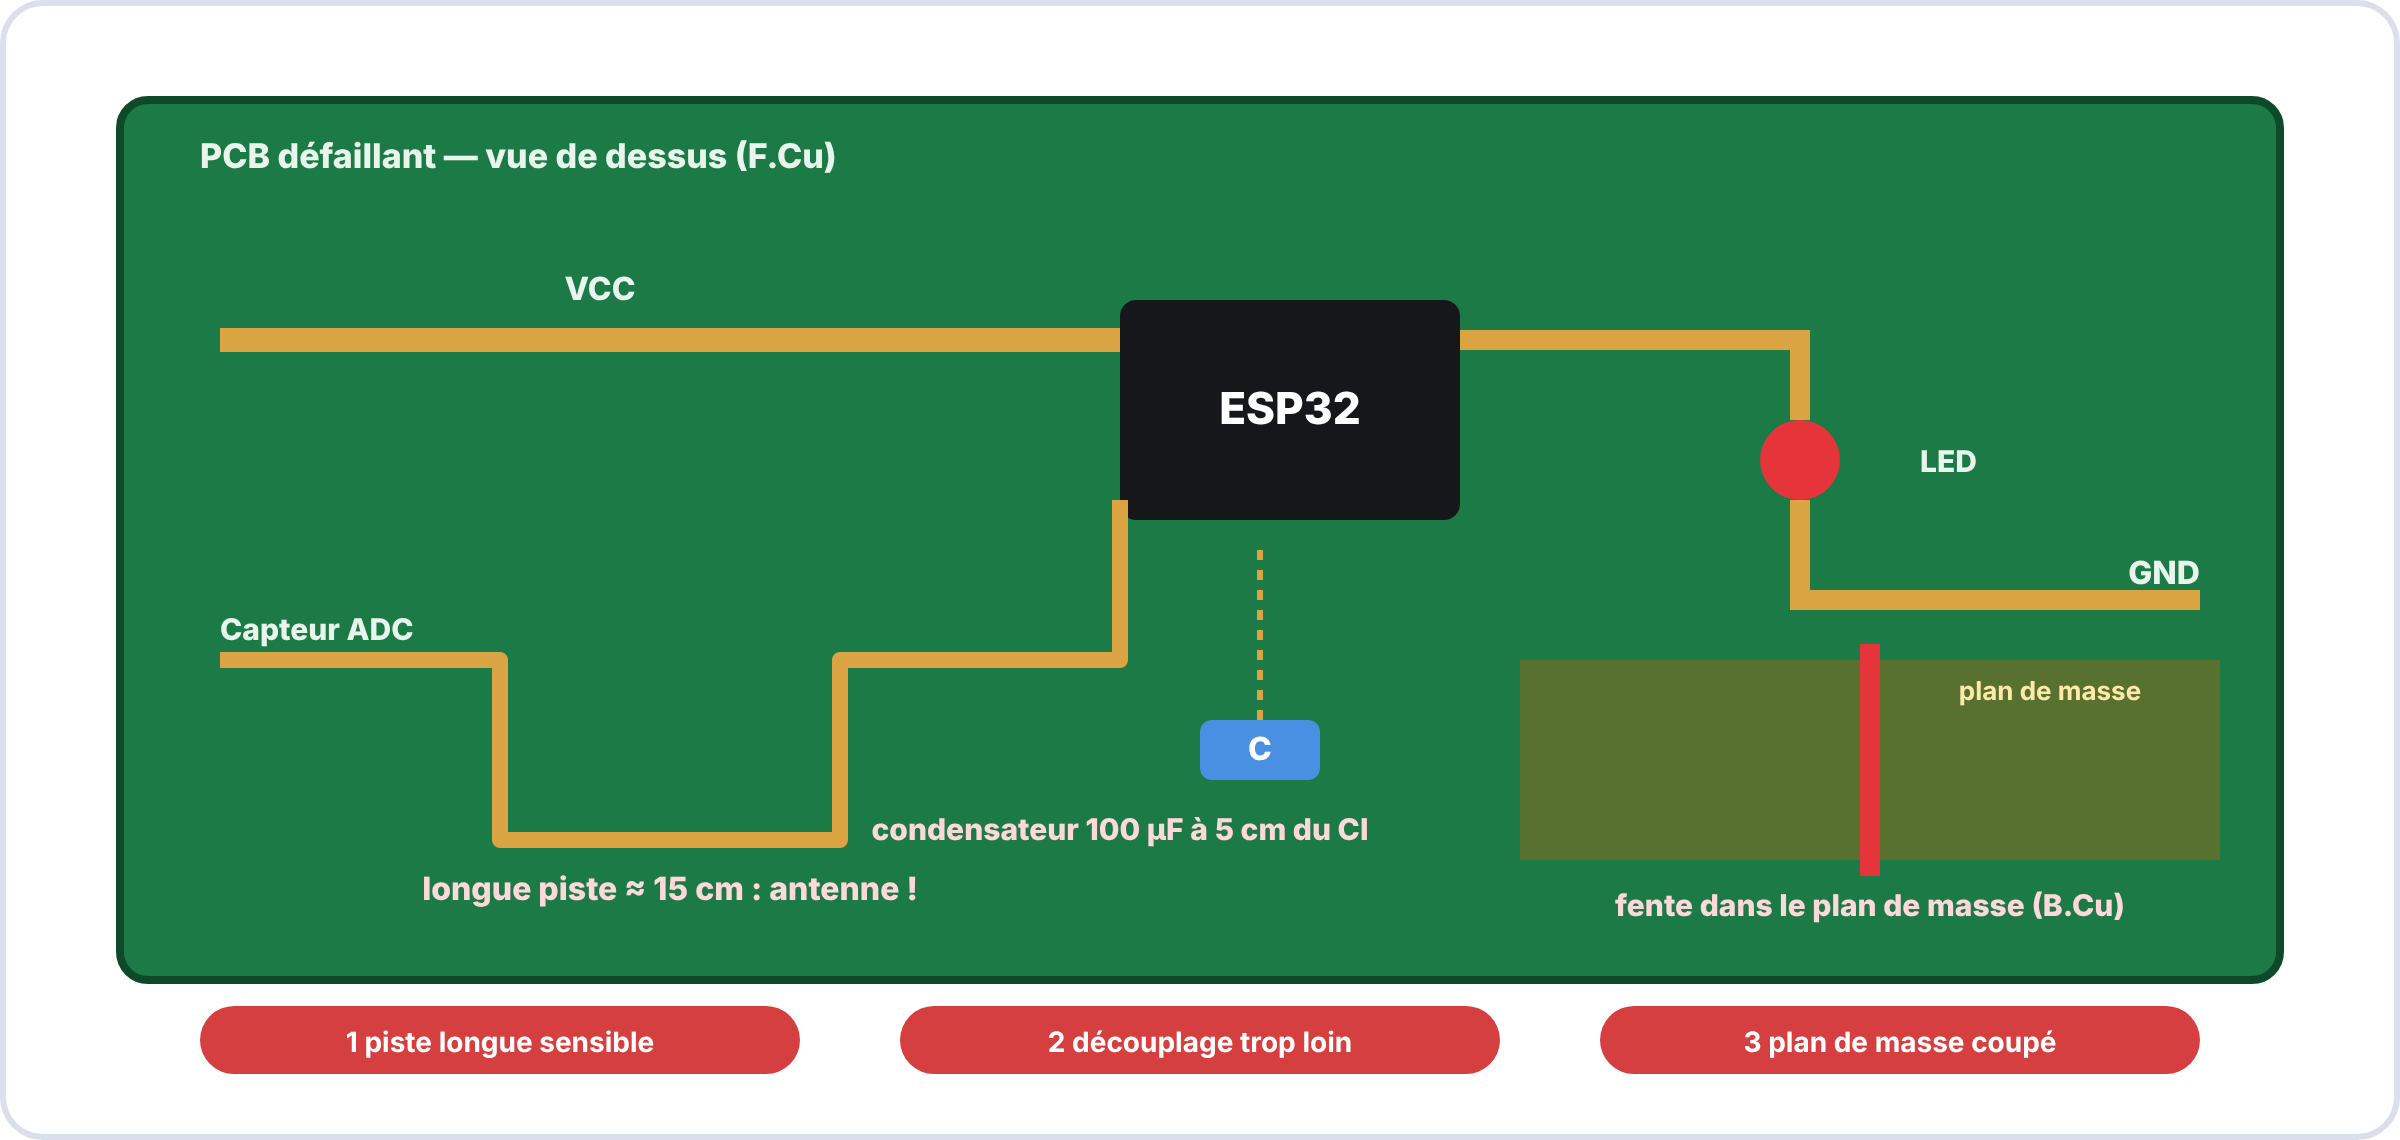
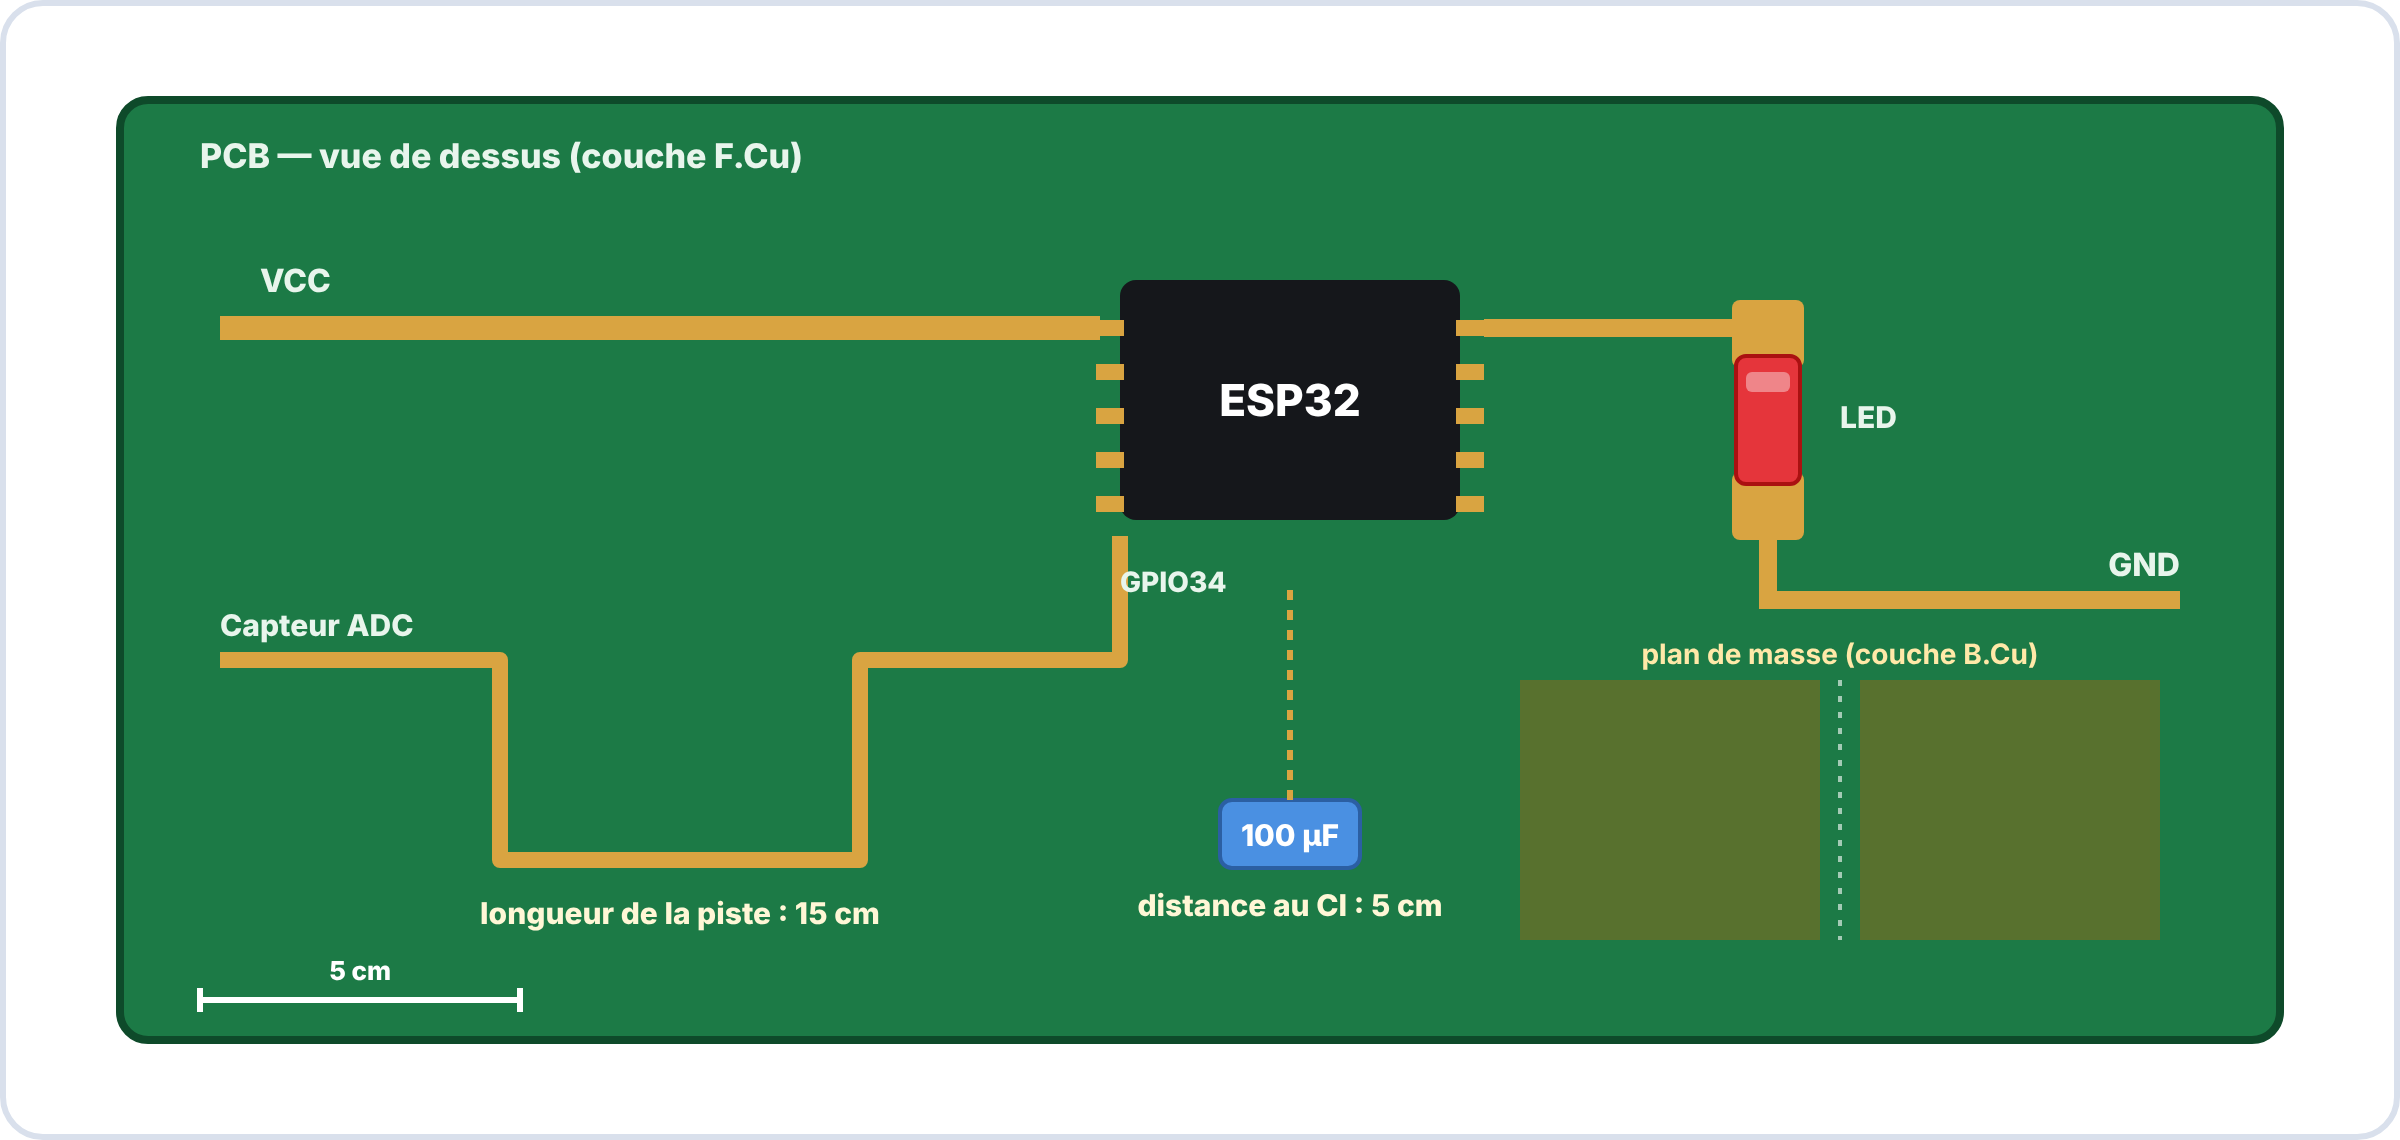
Fiche de maintenance en illustration ; PCB CEM : annotations qui donnaient les réponses retirées, LED montée sur ses pastilles
Claude-Session: https://claude.ai/code/session_018Ln2Xo12prChdSPrkdSn9D

diff --git a/outils/illustrations-e2/figs_schemas.py b/outils/illustrations-e2/figs_schemas.py
@@ -164,16 +164,29 @@ def f_climasens_cablage():
 
 
 def f_cem_pcb_defaillant():
-    o = f'<rect x="60" y="50" width="1080" height="440" rx="14" fill="#1c7a46" stroke="#0e4a2a" stroke-width="4"/>' + T(100, 84, "PCB défaillant — vue de dessus (F.Cu)", 17, 800, "#e8f5ec", "start")
-    cu = "#d9a441"
-    o += f'<rect x="560" y="150" width="170" height="110" rx="8" fill="#15171b"/>' + T(645, 212, "ESP32", 22, 800, "#fff")
-    o += f'<path d="M110,170 H560" stroke="{cu}" stroke-width="12" fill="none"/>' + T(300, 150, "VCC", 16, 800, "#e8f5ec") + f'<path d="M730,170 H900 V210" stroke="{cu}" stroke-width="10" fill="none"/><circle cx="900" cy="230" r="20" fill="#e5353b"/>' + T(960, 236, "LED", 15, 800, "#e8f5ec", "start") + f'<path d="M900,250 V300 H1100" stroke="{cu}" stroke-width="10" fill="none"/>' + T(1100, 292, "GND", 16, 800, "#e8f5ec", "end")
-    o += f'<path d="M110,330 H250 V420 H420 V330 H560 V250" stroke="{cu}" stroke-width="8" fill="none" stroke-linejoin="round"/>' + T(110, 320, "Capteur ADC", 15, 800, "#e8f5ec", "start") + T(335, 450, "longue piste ≈ 15 cm : antenne !", 16, 800, "#ffd9d9")
-    o += f'<rect x="600" y="360" width="60" height="30" rx="6" fill="#4a90e2"/>' + T(630, 380, "C", 16, 800, "#fff") + f'<path d="M630,360 V270" stroke="{cu}" stroke-width="3" stroke-dasharray="5 5"/>' + T(560, 420, "condensateur 100 µF à 5 cm du CI", 15, 800, "#ffd9d9")
-    o += f'<rect x="100" y="470" width="480" height="14" fill="#2f2f2f" opacity=".0"/>'
-    o += f'<rect x="760" y="330" width="170" height="100" fill="#8a6a1c" opacity=".55"/><rect x="940" y="330" width="170" height="100" fill="#8a6a1c" opacity=".55"/><rect x="930" y="322" width="10" height="116" fill="#e5353b"/>' + T(935, 458, "fente dans le plan de masse (B.Cu)", 15, 800, "#ffd9d9") + T(1025, 350, "plan de masse", 13, 700, "#ffe9a8")
-    for x, y, t in ((330, 195, "1"), (645, 360 - 34, "2"), (935, 440, "3")): pass
-    o += chip(250, 520, "1  piste longue sensible", RED, w=300, size=14) + chip(600, 520, "2  découplage trop loin", RED, w=300, size=14) + chip(950, 520, "3  plan de masse coupé", RED, w=300, size=14)
+    cu = "#d9a441"; lbl = "#e8f5ec"
+    o = f'<rect x="60" y="50" width="1080" height="470" rx="14" fill="#1c7a46" stroke="#0e4a2a" stroke-width="4"/>' + T(100, 84, "PCB — vue de dessus (couche F.Cu)", 17, 800, lbl, "start")
+    # circuit intégré
+    o += f'<rect x="560" y="140" width="170" height="120" rx="8" fill="#15171b"/>' + T(645, 208, "ESP32", 22, 800, "#fff") + "".join(f'<rect x="{548}" y="{160+k*22}" width="14" height="8" fill="{cu}"/><rect x="{728}" y="{160+k*22}" width="14" height="8" fill="{cu}"/>' for k in range(5))
+    # alimentation
+    o += f'<path d="M110,164 H550" stroke="{cu}" stroke-width="12" fill="none"/>' + T(130, 146, "VCC", 16, 800, lbl, "start")
+    # LED CMS entre le CI et la masse (pastilles + corps)
+    o += f'<path d="M742,164 H880" stroke="{cu}" stroke-width="9" fill="none"/>'
+    o += f'<rect x="866" y="150" width="36" height="34" rx="4" fill="{cu}"/><rect x="866" y="236" width="36" height="34" rx="4" fill="{cu}"/>'
+    o += f'<rect x="868" y="178" width="32" height="64" rx="5" fill="#e5353b" stroke="#a11" stroke-width="2"/><rect x="873" y="186" width="22" height="10" rx="3" fill="#fff" opacity=".4"/>' + T(920, 214, "LED", 15, 800, lbl, "start")
+    o += f'<path d="M884,270 V300 H1090" stroke="{cu}" stroke-width="9" fill="none"/>' + T(1090, 288, "GND", 16, 800, lbl, "end")
+    # entrée capteur ADC : piste en U
+    o += f'<path d="M110,330 H250 V430 H430 V330 H560 V268" stroke="{cu}" stroke-width="8" fill="none" stroke-linejoin="round"/>' + T(110, 318, "Capteur ADC", 15, 800, lbl, "start") + T(560, 296, "GPIO34", 14, 800, lbl, "start")
+    o += T(340, 462, "longueur de la piste : 15 cm", 15, 800, "#fff7d6")
+    # condensateur de découplage, éloigné
+    o += f'<rect x="610" y="400" width="70" height="34" rx="6" fill="#4a90e2" stroke="#2b5fa3" stroke-width="2"/>' + T(645, 423, "100 µF", 15, 800, "#fff")
+    o += f'<path d="M645,400 V292" stroke="{cu}" stroke-width="3" stroke-dasharray="5 5"/><path d="M590,262 H700" stroke="none"/>'
+    o += T(645, 458, "distance au CI : 5 cm", 15, 800, "#fff7d6")
+    # plan de masse (B.Cu) vu en transparence, avec une coupure
+    o += f'<rect x="760" y="340" width="150" height="130" fill="#8a6a1c" opacity=".55"/><rect x="930" y="340" width="150" height="130" fill="#8a6a1c" opacity=".55"/>' + T(920, 332, "plan de masse (couche B.Cu)", 14, 700, "#ffe9a8")
+    o += f'<path d="M920,340 V470" stroke="#fff" stroke-width="2" stroke-dasharray="3 5" opacity=".6"/>'
+    # échelle
+    o += f'<line x1="100" y1="500" x2="260" y2="500" stroke="#fff" stroke-width="3"/><line x1="100" y1="494" x2="100" y2="506" stroke="#fff" stroke-width="3"/><line x1="260" y1="494" x2="260" y2="506" stroke="#fff" stroke-width="3"/>' + T(180, 490, "5 cm", 13, 800, "#fff")
     return figure(W, 570, o)
 
 
@@ -196,4 +209,47 @@ def f_grille_boitier():
     return figure(W, 610, o)
 
 
-FIGS = {"saleae_logic2": f_saleae, "mqtt_sequence": f_mqtt_seq, "nodered_interface": f_nodered_ui, "climasens_architecture": f_climasens_archi, "climasens_cablage": f_climasens_cablage, "cem_pcb_defaillant": f_cem_pcb_defaillant, "grille_boitier": f_grille_boitier}
+
+
+def f_fiche_maintenance():
+    o = f'<rect x="40" y="26" width="1120" height="860" rx="18" fill="#fff" stroke="#c7d0e2" stroke-width="3"/>'
+    o += f'<rect x="40" y="26" width="1120" height="74" rx="18" fill="{BLUE}"/><rect x="40" y="70" width="1120" height="30" fill="{BLUE}"/>'
+    o += T(70, 74, "FICHE DE MAINTENANCE CORRECTIVE", 26, 800, "#fff", "start") + T(1130, 74, "à remplir à CHAQUE intervention", 16, 600, "#dbe6ff", "end")
+    meta = (("Équipement", "esp32-station-météo-01"), ("Date", "2026-03-15"), ("Intervenant", "Alice DUPONT"), ("Durée", "45 min"))
+    for k, (a, b) in enumerate(meta):
+        x = 70 + k * 270
+        o += f'<rect x="{x}" y="116" width="250" height="58" rx="10" fill="#eef2fb"/>' + T(x + 14, 140, a, 13, 700, MUTED, "start") + T(x + 14, 163, b, 17, 800, INK, "start")
+    def card(x, y, w, h, n, title, col):
+        return (f'<rect x="{x}" y="{y}" width="{w}" height="{h}" rx="14" fill="{col}" opacity=".07"/>'
+                f'<rect x="{x}" y="{y}" width="{w}" height="{h}" rx="14" fill="none" stroke="{col}" stroke-width="3"/>' + badge(x + 28, y + 30, n, col, 16) + T(x + 56, y + 37, title, 19, 800, col, "start"))
+    # 1 symptôme
+    o += card(70, 196, 520, 150, 1, "SYMPTÔME(S)", RED)
+    o += T(90, 252, "L'ESP32 ne publie plus sur AWS IoT depuis 14 h 00.", 16, 600, INK, "start") + T(90, 278, "LED Wi-Fi allumée : la connexion Wi-Fi est correcte.", 16, 600, INK, "start")
+    o += f'<rect x="90" y="298" width="480" height="34" rx="8" fill="#1b2742"/>' + T(104, 321, "Moniteur série :  « Erreur MQTT : 5 »  en boucle", 15, 700, "#fca5a5", "start", extra='font-family="monospace"')
+    # 2 démarche
+    o += card(70, 362, 520, 330, 2, "DÉMARCHE DE DIAGNOSTIC", BLUE)
+    steps = (("Wi-Fi", "OK : LED + log « WiFi OK → 192.168.1.42 »", GREEN, "✓"), ("Broker", "ping OK : le broker est joignable", GREEN, "✓"), ("Certificat", "console AWS : certificat actif ? Oui", GREEN, "✓"), ("Journal AWS", "test MQTT → erreur :  « Policy doesn't allow iot:Publish on this resource »", RED, "✗"))
+    o += f'<line x1="106" y1="430" x2="106" y2="640" stroke="#9fb4e8" stroke-width="3" stroke-dasharray="5 5"/>'
+    for k, (t, d, c, ic) in enumerate(steps):
+        y = 426 + k * 66
+        o += f'<circle cx="106" cy="{y+4}" r="15" fill="{c}"/>' + T(106, y + 10, ic, 18, 800, "#fff") + T(136, y - 2, f"Étape {k+1} · {t}", 15, 800, INK, "start")
+        if k < 3: o += T(136, y + 22, d, 14, 600, MUTED, "start")
+        else: o += T(136, y + 22, "test MQTT → erreur :", 14, 600, MUTED, "start") + T(136, y + 42, "« Policy doesn't allow iot:Publish on this resource »", 13, 700, RED, "start", extra='font-family="monospace"')
+    # 3 cause
+    o += card(610, 196, 520, 150, 3, "CAUSE IDENTIFIÉE", AMBER)
+    o += T(630, 252, "La Policy IoT AWS a été modifiée par erreur :", 16, 600, INK, "start") + T(630, 278, "l'action iot:Publish a été supprimée lors", 16, 600, INK, "start") + T(630, 304, "d'une mise à jour de sécurité.", 16, 600, INK, "start")
+    # 4 action
+    o += card(610, 362, 520, 110, 4, "ACTION CORRECTIVE", GREEN)
+    o += T(630, 420, "Ajout de « iot:Publish » dans la Policy IoT", 16, 600, INK, "start") + T(630, 446, "via la console AWS.", 16, 600, INK, "start")
+    # 5 validation
+    o += card(610, 488, 520, 150, 5, "VALIDATION", GREEN)
+    for k, tx in enumerate(("Messages visibles dans la console AWS (test MQTT)", "CloudWatch : nouvelles métriques de température", "Aucun incident depuis plus de 24 h")):
+        y = 548 + k * 30
+        o += f'<circle cx="636" cy="{y-5}" r="11" fill="{GREEN}"/>' + T(636, y + 1, "✓", 14, 800, "#fff") + T(658, y, tx, 15, 600, INK, "start")
+    # 6 prévention
+    o += card(610, 654, 520, 150, 6, "AMÉLIORATION PRÉVENTIVE", "#7c3aed")
+    o += T(630, 710, "• Alarme CloudWatch si aucune métrique pendant plus de 15 min", 15, 600, INK, "start") + T(630, 738, "• Validation obligatoire avant toute modification de", 15, 600, INK, "start") + T(644, 762, "Policy IoT en production", 15, 600, INK, "start")
+    o += chip(330, 740, "Une fiche bien remplie évite de rechercher deux fois la même panne", INK, w=520, size=14)
+    return figure(W, 910, o)
+
+FIGS = {"saleae_logic2": f_saleae, "mqtt_sequence": f_mqtt_seq, "nodered_interface": f_nodered_ui, "climasens_architecture": f_climasens_archi, "climasens_cablage": f_climasens_cablage, "cem_pcb_defaillant": f_cem_pcb_defaillant, "grille_boitier": f_grille_boitier, "fiche_maintenance": f_fiche_maintenance}

diff --git a/docs/premiere/S14-maintenance-corrective-diagnostic-de/01-cours.md b/docs/premiere/S14-maintenance-corrective-diagnostic-de/01-cours.md
@@ -259,23 +259,7 @@ Problème AWS IoT / certificats → CONSOLE AWS CLOUDWATCH
 
 ### Structure standardisée
 
-> [!NOTE] FICHE DE MAINTENANCE CORRECTIVE
->
-> | | |
-> |---|---|
-> | **Équipement** | esp32-station-météo-01 |
-> | **Date** | 2026-03-15 |
-> | **Intervenant** | Alice DUPONT |
-> | **Durée d'intervention** | 45 min |
-
-| Rubrique | Contenu |
-|---|---|
-| **1. Symptôme(s)** | L'ESP32 ne publie plus sur AWS IoT depuis 14 h 00. LED Wi-Fi OK. Moniteur série : « Erreur MQTT : 5 » en boucle. |
-| **2. Démarche de diagnostic** | **Étape 1** : Wi-Fi OK (LED + log « WiFi OK → 192.168.1.42 »).<br>**Étape 2** : ping du broker OK → broker joignable.<br>**Étape 3** : console AWS → certificat actif ? Oui.<br>**Étape 4** : console AWS → Surveiller → test MQTT → erreur : « Policy doesn't allow iot:Publish on this resource ». |
-| **3. Cause identifiée** | La *Policy IoT* AWS a été modifiée par erreur (suppression de l'action `iot:Publish` lors d'une mise à jour de sécurité). |
-| **4. Action corrective** | Ajout de `iot:Publish` dans la Policy IoT via la console AWS. |
-| **5. Validation** | ✅ Messages visibles dans la console AWS (test MQTT).<br>✅ CloudWatch : nouvelles métriques de température.<br>✅ Aucun incident depuis plus de 24 h. |
-| **6. Amélioration préventive** | Créer une alarme CloudWatch sur l'absence de métriques > 15 min.<br>Ajouter une politique de gestion des changements (validation avant toute modification de Policy IoT en production). |
+![Fiche de maintenance corrective complétée : symptôme, démarche de diagnostic, cause, action, validation, amélioration préventive](images/fiche-maintenance.png)
 
 
 > [!TIP] 💡 En clair
